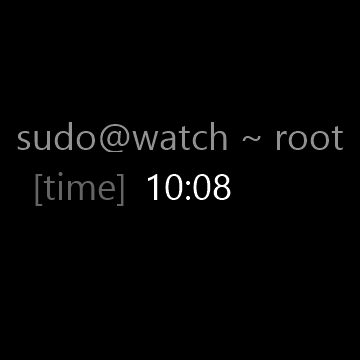
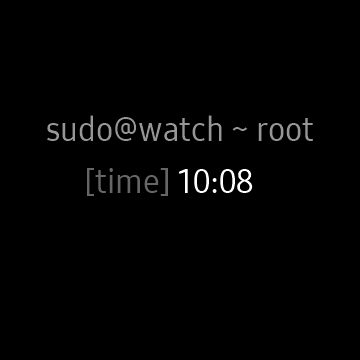
Aumentar fuente a 34px en AOD de Terminal y reducir espacio entre [time] y la hora

Changed region(s): [[0.0917, 0.4583, 0.7028, 0.5806], [0.0306, 0.3056, 0.6722, 0.4278], [0.6722, 0.3361, 0.9472, 0.4278]]

diff --git a/README.md b/README.md
@@ -55,7 +55,7 @@ Diseño ultralimpio sobre fondo negro puro AMOLED (`#000000`) con píxeles físi
   - `[batt]` — Nivel y estado de batería en % (abre Estado de Batería).
   - `[temp]` — Temperatura meteorológica actual (abre Clima).
   - `[hr]  ` — Frecuencia cardíaca en tiempo real (abre Ritmo Cardíaco).
-- **AOD (Always-On Display):** Modo minimalista centrado con únicamente `sudo@watch ~ root` y la hora (`[time]`) en tipografía uniforme de 30 px.
+- **AOD (Always-On Display):** Modo minimalista centrado con únicamente `sudo@watch ~ root` y la hora (`[time]`) en tipografía nativa de **34 px** (`AT24002`) con espaciado equilibrado y compacto entre etiqueta y hora.
 
 ---
 
